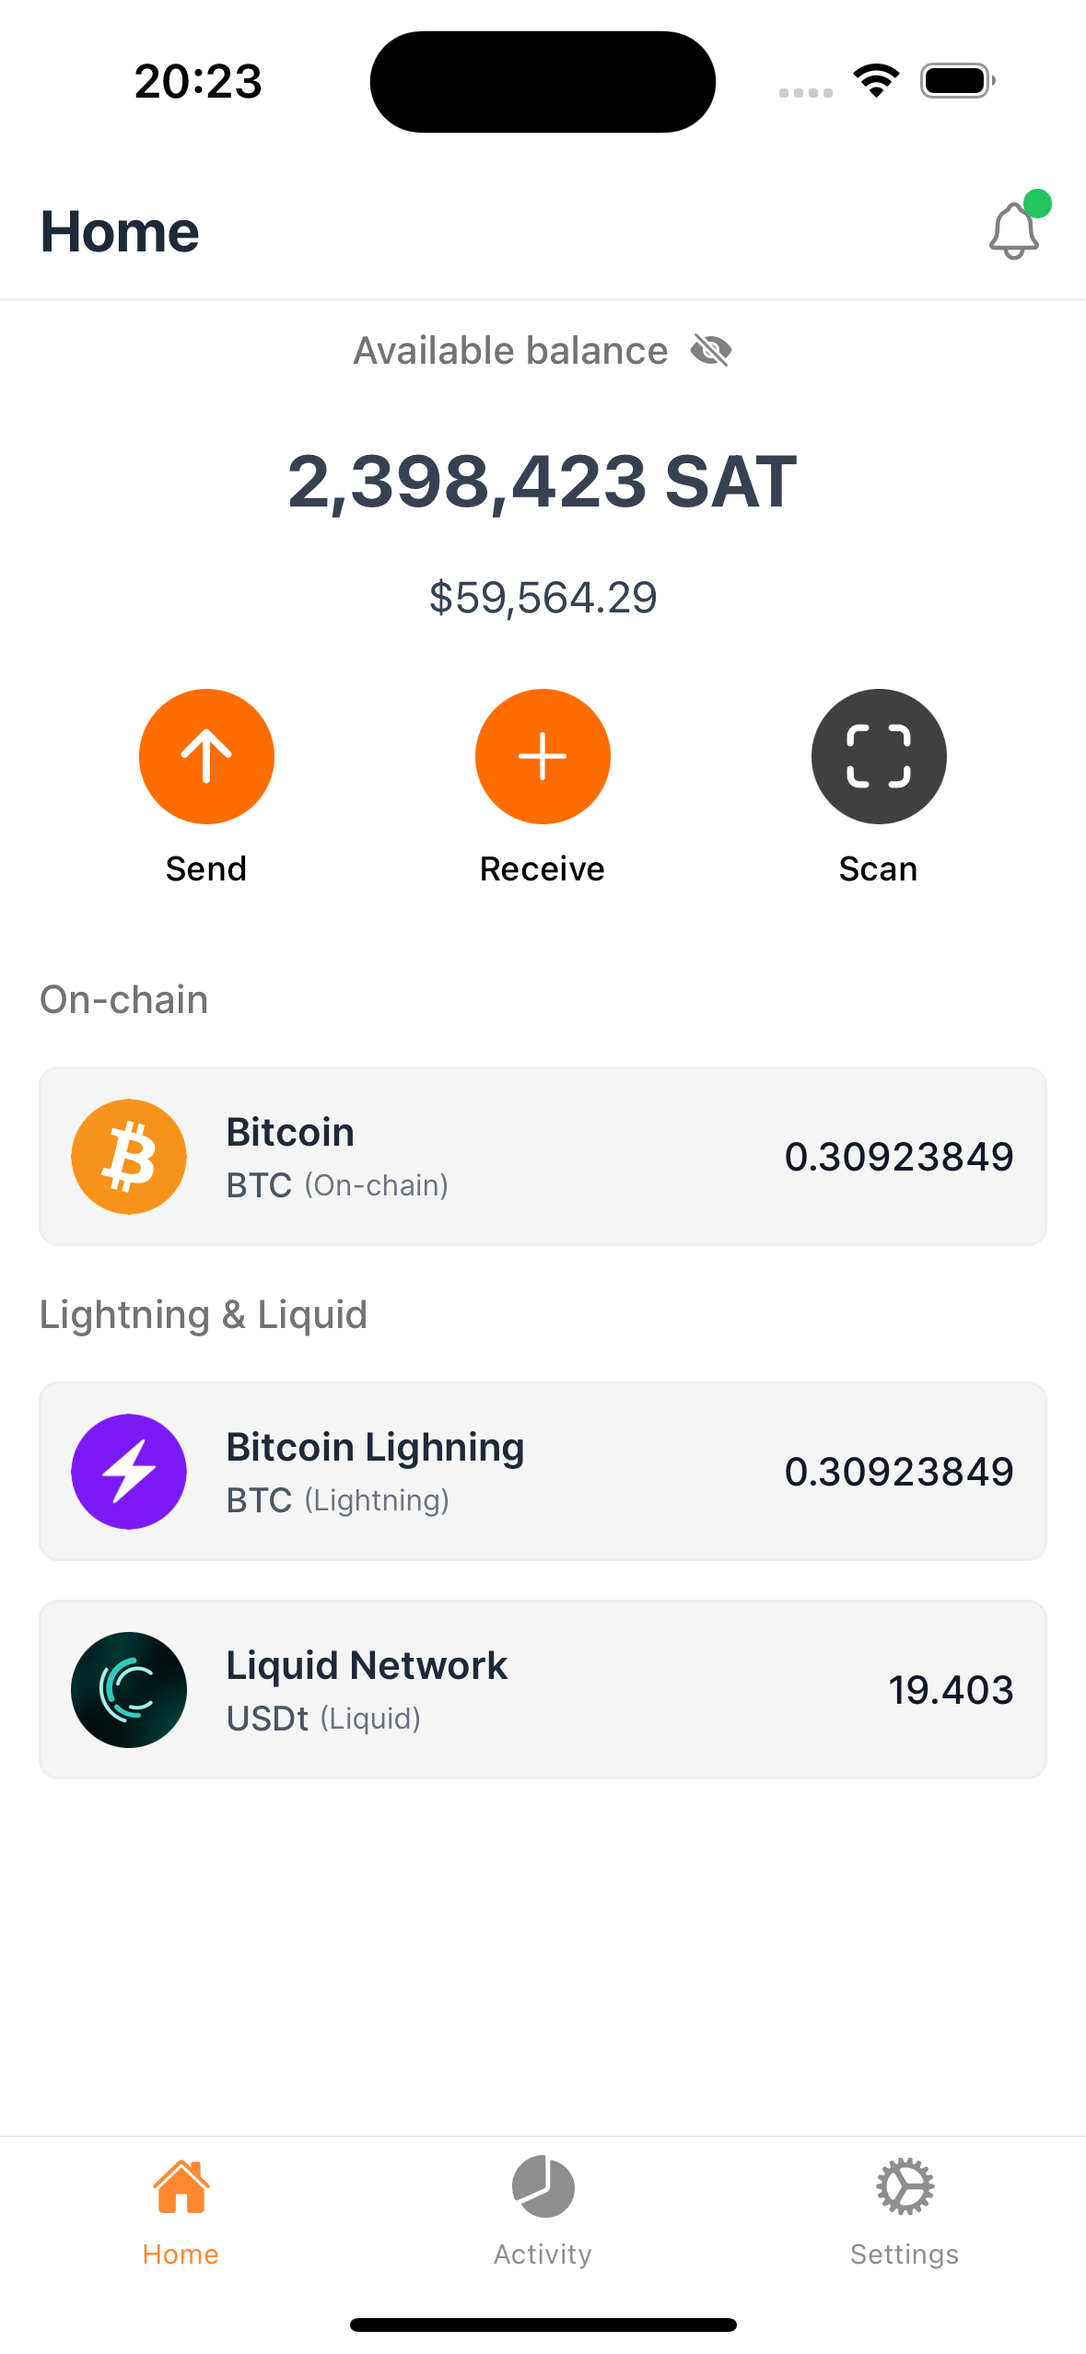
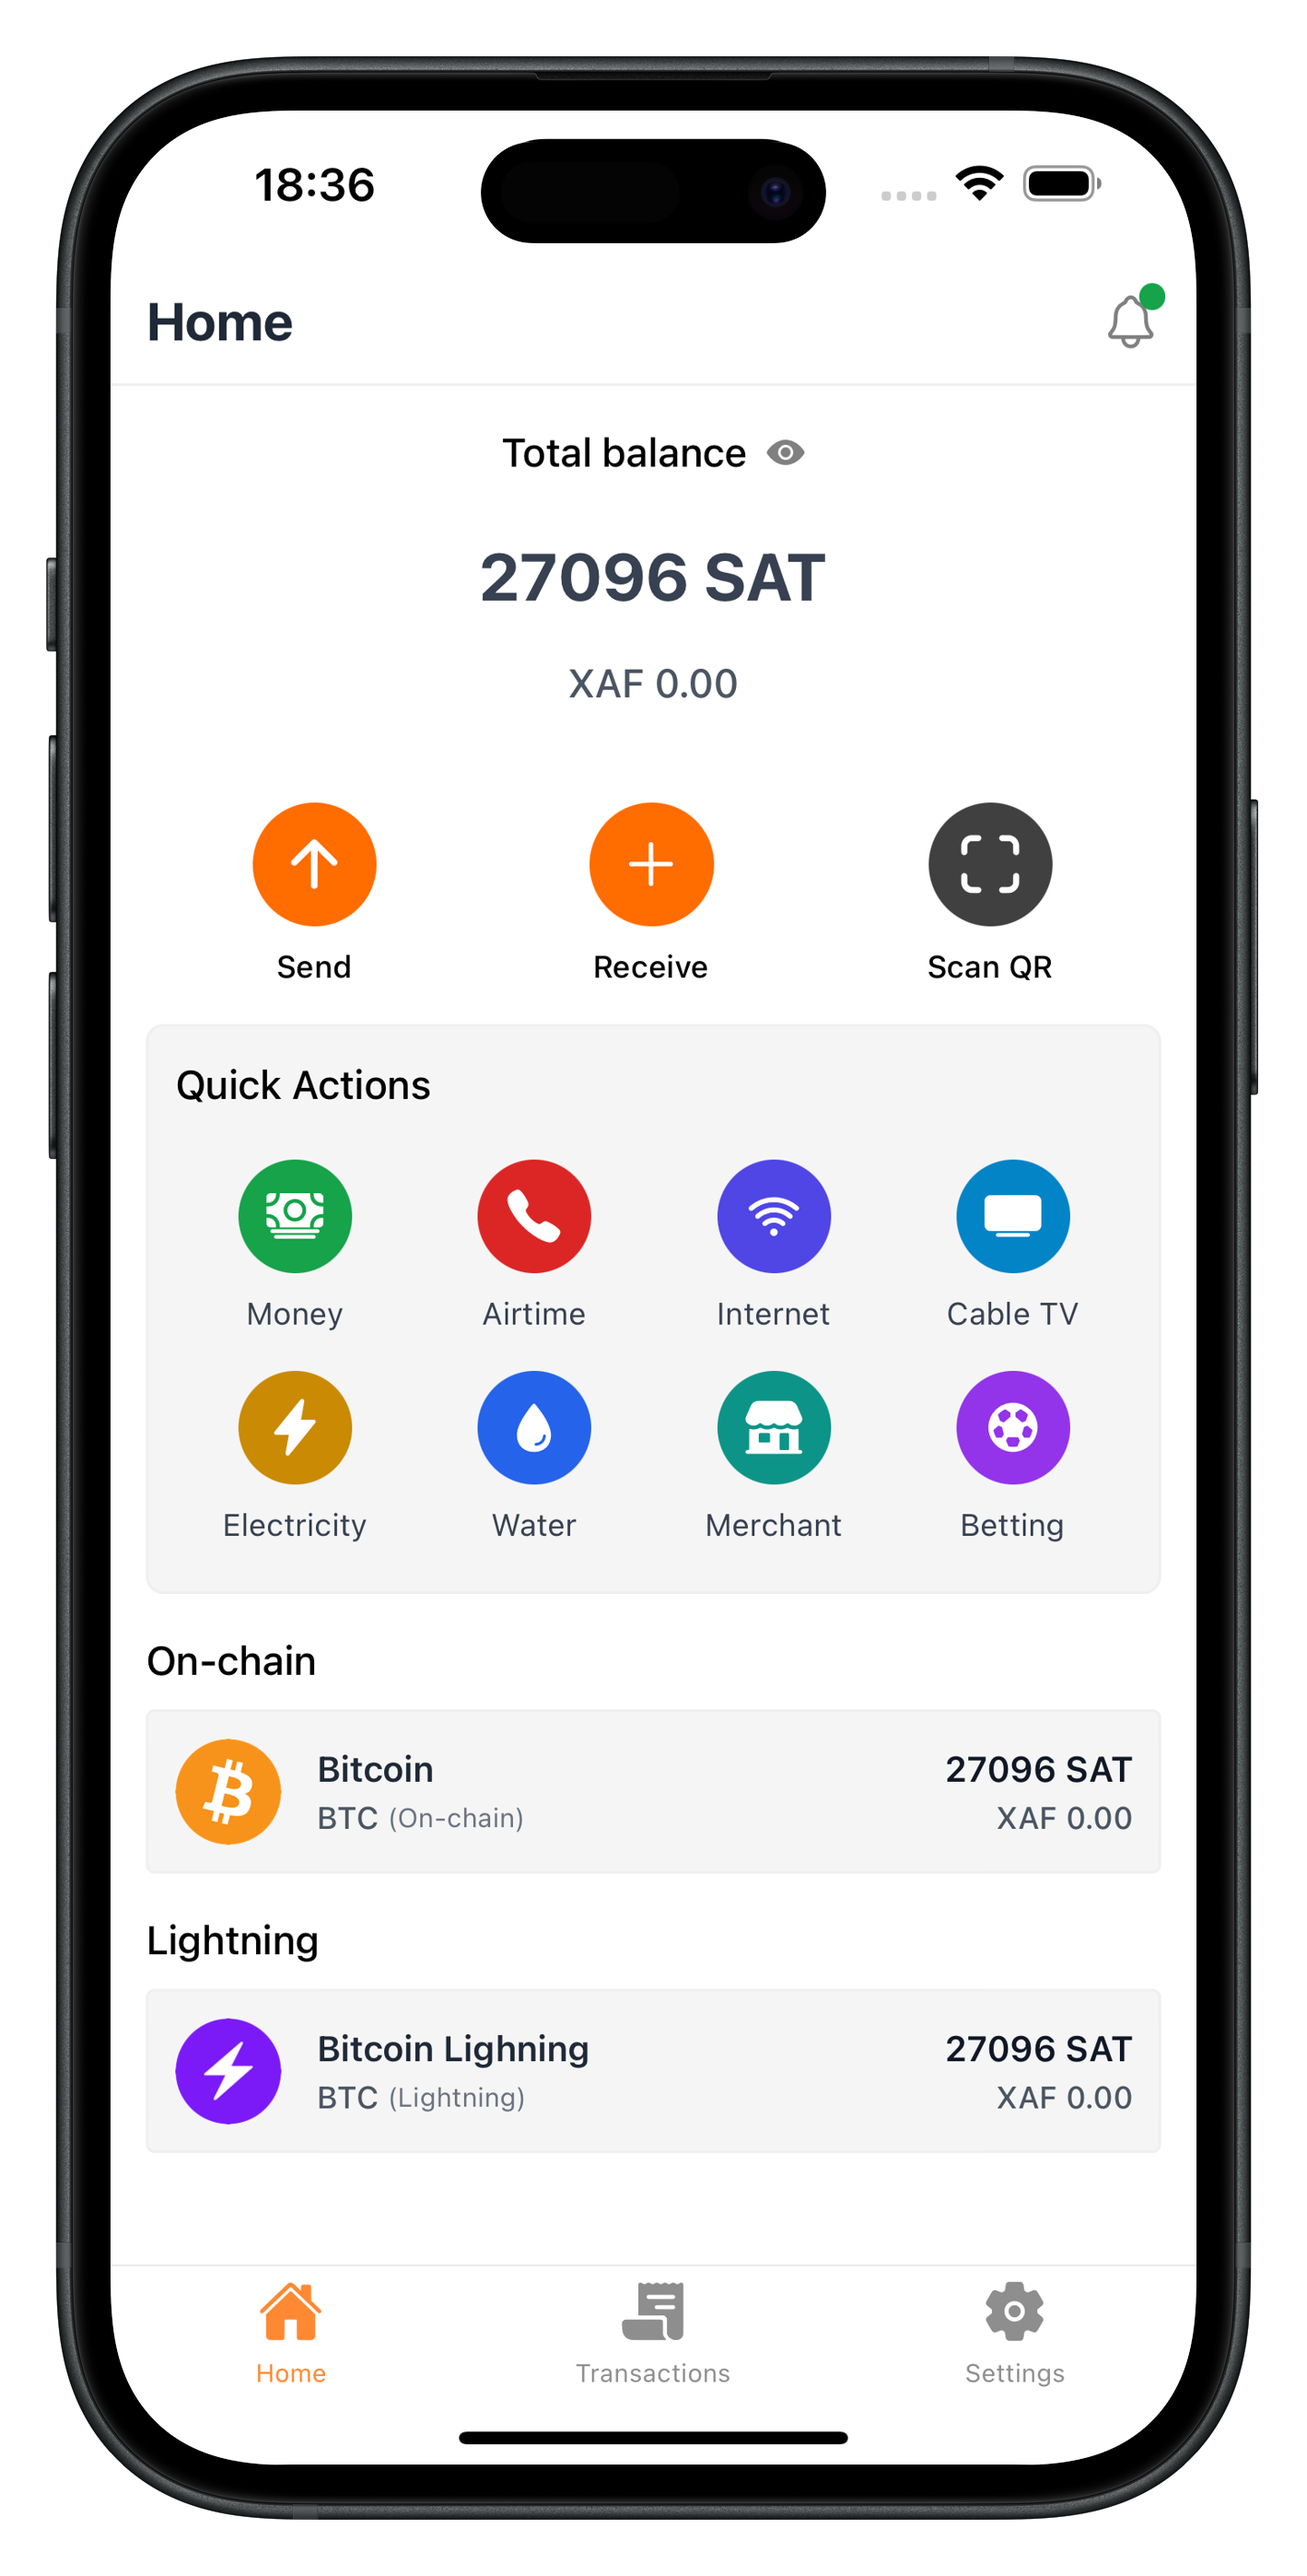
feat: update screenshot and description

diff --git a/src/app/page.tsx b/src/app/page.tsx
@@ -7,13 +7,13 @@ import Header from "./components/header";
 import { Modal } from "./components/modal";
 import { DownloadContent } from "./components/donwload-content";
 
-import screenshot from "@/app/assets/screen_home.png";
+import screenshot from "@/app/assets/screenshot.png";
 
 export default function Home() {
   const [isDownloadModalOpen, setIsDownloadModalOpen] = useState(false);
 
   return (
-    <div className="flex flex-col justify-between min-h-screen relative from-white to-gray-50">
+    <div className="flex flex-col justify-between min-h-screen relative from-white to-gray-50 overflow-x-hidden">
       {/* Background Pattern */}
       <div
         className="absolute inset-0 pointer-events-none z-0 opacity-10"
@@ -51,16 +51,16 @@ export default function Home() {
             </div>
             <h1
               className="
-                font-bold 
+                 
                 tracking-tight 
-                leading-tight 
+                leading-7 
                 text-3xl 
                 sm:text-4xl 
                 md:text-5xl 
-                lg:text-6xl
+                lg:text-5xl
               "
             >
-              Bitcoin superapp for Financial Freedom
+              Grimm App – The next-gen self-custodial Bitcoin superapp for seamless Lightning payments. ⚡ 🚀
             </h1>
             <blockquote
               className="
